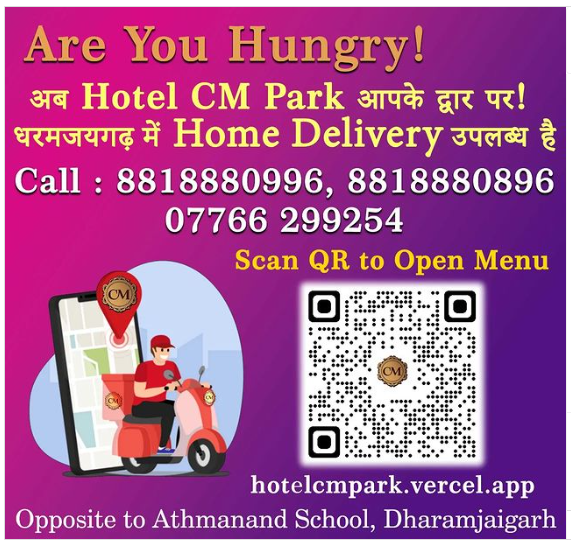
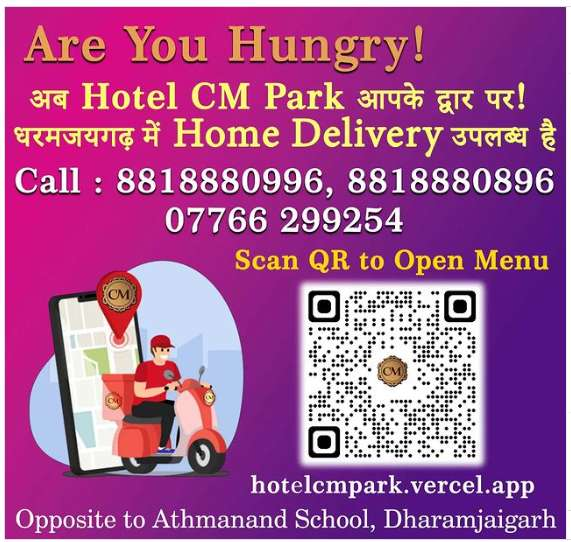
img rendring optimization

diff --git a/silverPlatter/silverPlatter.html b/silverPlatter/silverPlatter.html
@@ -11,7 +11,9 @@
 <body>
   <div id="popup-parent">
     <div class="popup">
+      <a href="https://www.instagram.com/hotelcmpark?igsh=MWk5ZnZtaWwxZXowNg==">
           <div class="popup-content">
+            </a>
             <h1 id="closePopup"><i class="fa fa-close"></i></h1>
               <img id="adimg" src="home/webjpeg/homeD.png" alt="! Advertisement !">
             </div>
@@ -205,6 +207,6 @@
     <img id="whatsapp" src="webjpeg/whatsapp.gif" alt="whatsapp us">
   </a>
 </div>
-<script  src="./silverPlatter.js"></script>
+<script defer src="./silverPlatter.js"></script>
 </body>
 </html>

diff --git a/Galaxy/galaxy.html b/Galaxy/galaxy.html
@@ -11,7 +11,9 @@
 <body>
   <div id="popup-parent">
     <div class="popup">
+      <a href="https://www.instagram.com/hotelcmpark?igsh=MWk5ZnZtaWwxZXowNg==">
           <div class="popup-content">
+          </a>
             <h1 id="closePopup"><i class="fa fa-close"></i></h1>
               <img id="adimg" src="home/webjpeg/homeD.png" alt="! Advertisement !">
             </div>
@@ -122,6 +124,6 @@
     <img id="whatsapp" src="webjpeg/whatsapp.gif" alt="whatsapp us">
   </a>
 </div>
-<script  src="./galaxy.js"></script>
+<script defer src="./galaxy.js"></script>
 </body>
 </html>

diff --git a/index.html b/index.html
@@ -14,7 +14,7 @@
         <div class="popup-content">
           <h1 id="closePopup"><i class="fa fa-close"></i></h1>
           <a href="https://www.instagram.com/hotelcmpark?igsh=MWk5ZnZtaWwxZXowNg==">
-            <img id="adimg" src="home/webjpeg/homeD.png" alt="! Advertisement !">
+            <img id="adimg" decoding="async" fetchpriority="high" alt="! Advertisement !">
           </a>
           </div>
     </div>

diff --git a/home/home.css b/home/home.css
@@ -415,3 +415,7 @@ h4 {
   display: block;
   border-radius: 12px;
 }
+
+img{
+  content-visibility: auto;
+}

diff --git a/Galaxy/galaxy.css b/Galaxy/galaxy.css
@@ -554,3 +554,7 @@ h4 {
   z-index: 999999;
   font-size: 20px;
 }
+
+img{
+  content-visibility: auto;
+}

diff --git a/silverPlatter/silverPlatter.css b/silverPlatter/silverPlatter.css
@@ -602,3 +602,7 @@ h4 {
   z-index: 999999;
   font-size: 20px;
 }
+
+img{
+  content-visibility: auto;
+}
